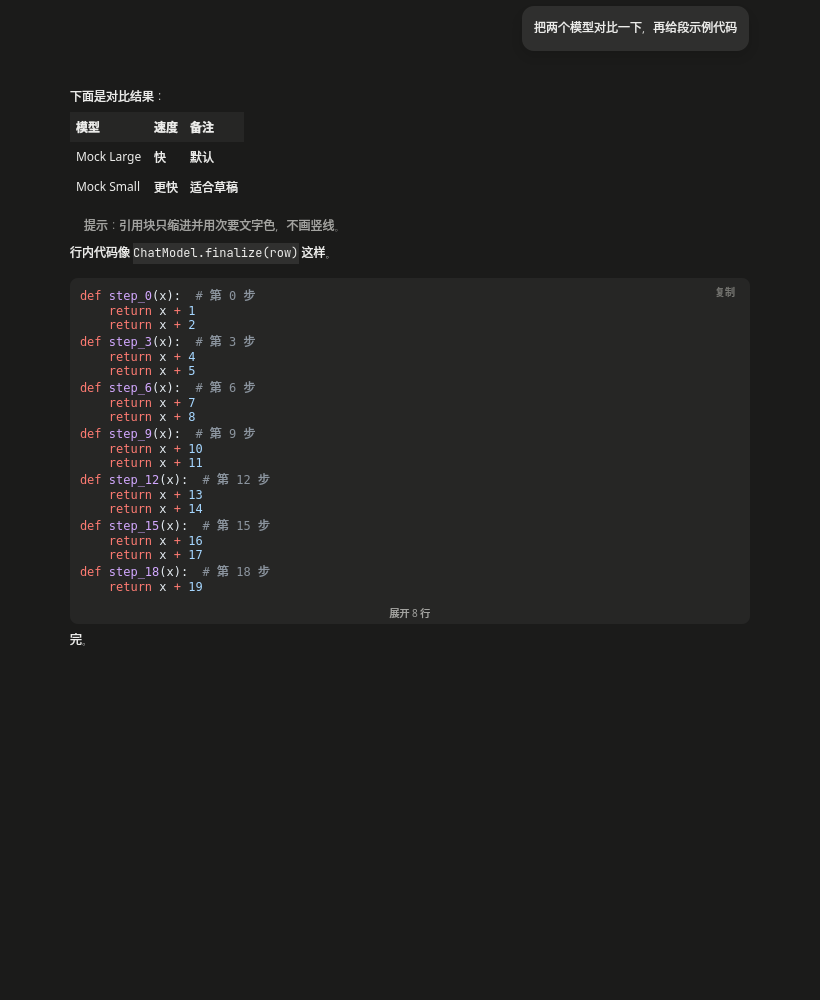
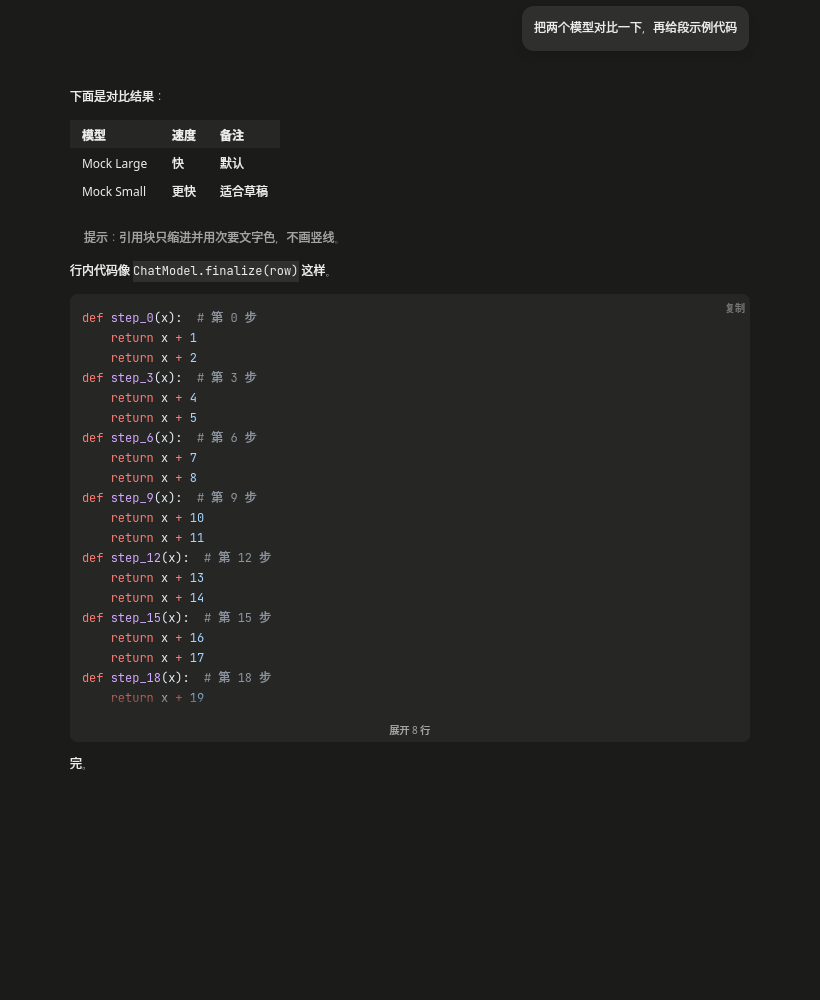
feat(chat-view): 代码块复制反馈“已复制 ✓”、12px/20px 排版与 12px 内边距、折叠渐隐；表格行高 28/左右 12；统一 12px 块间距

diff --git a/src/braid/ui/chat_view.py b/src/braid/ui/chat_view.py
@@ -10,6 +10,7 @@ from __future__ import annotations
 import json
 import re
 from collections import OrderedDict
+from collections.abc import Callable
 from dataclasses import dataclass, field
 from importlib.resources import files
 
@@ -32,6 +33,7 @@ from PySide6.QtGui import (
     QColor,
     QFont,
     QGuiApplication,
+    QLinearGradient,
     QMouseEvent,
     QPainter,
     QPalette,
@@ -70,6 +72,7 @@ _FALLBACK = {
         "subtle": "#F3F3F2",
         "control": "#F0F0EF",
         "active": "#E9E9E8",
+        "success": "#2E8B57",
     },
     True: {
         "text": "#ECECEA",
@@ -79,6 +82,7 @@ _FALLBACK = {
         "subtle": "#262625",
         "control": "#30302F",
         "active": "#3A3A39",
+        "success": "#5CC28A",
     },
 }
 
@@ -100,6 +104,7 @@ def _load_theme() -> dict[bool, dict[str, str]]:
 
 
 THEME = _load_theme()
+_FIXED_LH = 2  # QTextBlockFormat.LineHeightTypes.FixedHeight
 
 _FENCE_RE = re.compile(r"^(?P<ind> {0,3})(?P<f>`{3,}|~{3,})(?P<info>[^\n]*)$")
 
@@ -320,9 +325,14 @@ class CodeBlockInfo:
         return self.total_lines > CODE_COLLAPSE_LINES
 
 
-CODE_PAD = 10  # 代码块左右内边距
-CODE_VPAD = 8  # 代码块上下内边距
-TOGGLE_H = 22  # “展开 N 行”一栏高度
+CODE_PAD = 12  # 代码块左右内边距
+CODE_VPAD = 12  # 代码块上下内边距
+CODE_FONT_PX = 12
+CODE_LINE_H = 20
+TOGGLE_H = 24  # “展开 N 行”一栏高度（叠在渐隐区上）
+FADE_H = 32  # 折叠代码块底部渐隐高度
+GAP = 12  # 段落 / 表格 / 代码块之间的统一间距
+COPIED_MS = 1500
 
 
 def style_markdown(doc: QTextDocument, dark: bool) -> None:
@@ -339,17 +349,30 @@ def style_markdown(doc: QTextDocument, dark: bool) -> None:
                 tf.setBorder(0)
                 tf.setBorderStyle(QTextFrameFormat.BorderStyle.BorderStyle_None)
                 tf.setCellSpacing(0)
-                tf.setCellPadding(6)
+                tf.setCellPadding(0)
                 tf.setBorderCollapse(True)
                 tf.setWidth(QTextLength(QTextLength.Type.VariableLength, 0))
-                tf.setTopMargin(4)
-                tf.setBottomMargin(8)
+                tf.setTopMargin(GAP)
+                tf.setBottomMargin(GAP)
                 child.setFormat(tf)
-                for c in range(child.columns()):
-                    cell = child.cellAt(0, c)
-                    cf = cell.format()
-                    cf.setBackground(QColor(t["subtle"]))
-                    cell.setFormat(cf)
+                for r in range(child.rows()):
+                    for c in range(child.columns()):
+                        cell = child.cellAt(r, c)
+                        tcf = cell.format().toTableCellFormat()
+                        tcf.setLeftPadding(12)
+                        tcf.setRightPadding(12)
+                        tcf.setTopPadding(4)
+                        tcf.setBottomPadding(4)
+                        if r == 0:
+                            tcf.setBackground(QColor(t["subtle"]))
+                        cell.setFormat(tcf)
+                        # 行高 28 = 4 + 20 + 4
+                        cc = cell.firstCursorPosition()
+                        bf = cc.blockFormat()
+                        bf.setLineHeight(20, _FIXED_LH)
+                        bf.setTopMargin(0)
+                        bf.setBottomMargin(0)
+                        cc.setBlockFormat(bf)
     block = doc.begin()
     cur = QTextCursor(doc)
     code_bg = QColor(t["control"])
@@ -364,8 +387,20 @@ def style_markdown(doc: QTextDocument, dark: bool) -> None:
             nf.clearBackground()
             nf.setLeftMargin(CODE_PAD)
             nf.setRightMargin(CODE_PAD)
+            nf.setTopMargin(0)
+            nf.setBottomMargin(0)
+            nf.setLineHeight(CODE_LINE_H, _FIXED_LH)
             cur.setPosition(block.position())
             cur.setBlockFormat(nf)
+            cur.setPosition(block.position() + block.length() - 1, QTextCursor.MoveMode.KeepAnchor)
+            cf = QTextCharFormat()
+            f = QFont()
+            f.setFamilies(["JetBrains Mono", "Menlo", "Consolas", "monospace"])
+            f.setPixelSize(CODE_FONT_PX)
+            cf.setFont(
+                f, QTextCharFormat.FontPropertiesInheritanceBehavior.FontPropertiesSpecifiedOnly
+            )
+            cur.mergeCharFormat(cf)
         elif bf.hasProperty(QTextFormat.Property.BlockQuoteLevel):
             level = int(bf.property(QTextFormat.Property.BlockQuoteLevel) or 1)
             nf = bf
@@ -392,6 +427,21 @@ def style_markdown(doc: QTextDocument, dark: bool) -> None:
                     )
                     cur.mergeCharFormat(cf)
                 it += 1
+        block = block.next()
+
+
+def _uniform_spacing(doc: QTextDocument) -> None:
+    """普通段落上下 margin 统一为 GAP（相邻 margin 折叠，最终间距即 GAP）。"""
+    cur = QTextCursor(doc)
+    block = doc.begin()
+    while block.isValid():
+        bf = block.blockFormat()
+        cur.setPosition(block.position())
+        in_table = cur.currentTable() is not None
+        if not in_table and not bf.hasProperty(QTextFormat.Property.BlockCodeFence):
+            bf.setTopMargin(GAP)
+            bf.setBottomMargin(GAP)
+            cur.setBlockFormat(bf)
         block = block.next()
 
 
@@ -435,14 +485,17 @@ def _split_groups(
 
 
 def _pad_code_blocks(doc: QTextDocument, groups: list[list[int]], collapsed: list[bool]) -> None:
+    # margin 会折叠（取较大值），所以：段落↔代码块 = VPAD+GAP；代码块↔代码块要再加一个 VPAD
+    ends = {g[-1] for g in groups}
     for g, col in zip(groups, collapsed, strict=False):
         for num, extra in ((g[0], "top"), (g[-1], "bottom")):
             b = doc.findBlockByNumber(num)
             bf = b.blockFormat()
             if extra == "top":
-                bf.setTopMargin(2 * CODE_VPAD + 6)  # 相邻块 margin 会折叠，留出间隙
+                adj = (num - 1) in ends
+                bf.setTopMargin(CODE_VPAD + GAP + (CODE_VPAD if adj else 0))
             else:
-                bf.setBottomMargin(CODE_VPAD + 6 + (TOGGLE_H if col else 0))
+                bf.setBottomMargin(CODE_VPAD + GAP + (TOGGLE_H if col else 0))
             c = QTextCursor(b)
             c.setBlockFormat(bf)
 
@@ -478,6 +531,7 @@ class _DocCache:
                 doc.setMarkdown(collapse_source(text, expanded))
                 highlight_code_blocks(doc, dark)
                 style_markdown(doc, dark)
+                _uniform_spacing(doc)
                 groups = _split_groups(_code_groups(doc), fences, expanded)
                 infos = []
                 for i, (_s, _e, code) in enumerate(fences[: len(groups)]):
@@ -492,7 +546,7 @@ class _DocCache:
                     r0 = lay.blockBoundingRect(b0)
                     r1 = lay.blockBoundingRect(b1)
                     top = int(r0.top()) - CODE_VPAD
-                    bottom = int(r1.bottom()) + CODE_VPAD
+                    bottom = int(r1.top()) + CODE_LINE_H + CODE_VPAD + (TOGGLE_H if col else 0)
                     rect = QRect(0, top, width, max(1, bottom - top))
                     blocks.append(CodeBlockInfo(i, rect, code, n, col))
             self._d[key] = doc
@@ -518,6 +572,36 @@ class ChatDelegate(QStyledItemDelegate):
         self.dark = False
         self.hover_pos: QPoint | None = None  # 视图坐标，用于代码块悬停“复制”
         self.shadow_opacity = 0.55  # 用户气泡阴影保持很淡
+        # (row, 代码块下标) -> 计时器；存在即显示“已复制 ✓”
+        self.copied: dict[tuple[int, int], QTimer] = {}
+        self.copiedChanged_cb: list[Callable[[int], None]] = []  # 视图注册刷新回调
+
+    def mark_copied(self, row: int, block: int) -> None:
+        key = (row, block)
+        old = self.copied.pop(key, None)
+        if old is not None:
+            old.stop()
+            old.deleteLater()
+        timer = QTimer(self)
+        timer.setSingleShot(True)
+        timer.setInterval(COPIED_MS)
+        timer.timeout.connect(lambda: self._unmark(key))
+        self.copied[key] = timer
+        timer.start()
+        self._notify(row)
+
+    def _unmark(self, key: tuple[int, int]) -> None:
+        t = self.copied.pop(key, None)
+        if t is not None:
+            t.deleteLater()
+        self._notify(key[0])
+
+    def _notify(self, row: int) -> None:
+        for cb in self.copiedChanged_cb:
+            cb(row)
+
+    def copy_label(self, row: int, block: int) -> str:
+        return "已复制 ✓" if (row, block) in self.copied else "复制"
 
     # 布局
     def _column(self, rect: QRect) -> QRect:
@@ -542,12 +626,20 @@ class ChatDelegate(QStyledItemDelegate):
         out = []
         for info in self.cache.code_blocks(doc):
             r = info.rect.translated(ox, oy)
-            copy = QRect(r.right() - 44, r.top() + 4, 40, 20)
-            tog = QRect(r.x(), r.bottom() + 1, r.width(), TOGGLE_H) if info.collapsible else QRect()
-            if info.collapsible and not info.collapsed:
-                tog = QRect(r.right() - 92, r.top() + 4, 44, 20)
+            copy = QRect(r.right() - 68, r.top() + 4, 64, 20)
+            tog = QRect()
+            if info.collapsed:
+                tog = QRect(r.x(), r.bottom() - TOGGLE_H + 1, r.width(), TOGGLE_H)
+            elif info.collapsible:
+                tog = QRect(r.right() - 116, r.top() + 4, 44, 20)
             out.append((info, r, copy, tog))
         return out
+
+    @staticmethod
+    def fade_rect(code_rect: QRect) -> QRect:
+        """折叠代码块底部渐隐区：最后 TOGGLE_H（标签栏）+ FADE_H。"""
+        h = FADE_H + TOGGLE_H
+        return QRect(code_rect.x(), code_rect.bottom() - h + 1, code_rect.width(), h)
 
     def sizeHint(
         self, option: QStyleOptionViewItem, index: QModelIndex | QPersistentModelIndex
@@ -615,10 +707,10 @@ class ChatDelegate(QStyledItemDelegate):
             painter.drawRoundedRect(bubble, 12, 12)
         codes = self._code_rects(item, bubble, doc)
         painter.setPen(Qt.PenStyle.NoPen)
-        painter.setBrush(QColor(t["control"] if item.role == "user" else t["subtle"]))
-        for info, r, _c, _t in codes:
-            full = r.adjusted(0, 0, 0, TOGGLE_H if info.collapsed else 0)
-            painter.drawRoundedRect(full, 8, 8)
+        code_bg = QColor(t["control"] if item.role == "user" else t["subtle"])
+        painter.setBrush(code_bg)
+        for _info, r, _c, _t in codes:
+            painter.drawRoundedRect(r, 8, 8)
         painter.save()
         painter.translate(bubble.x() + PAD, bubble.y() + PAD)
         ctx = QAbstractTextDocumentLayout.PaintContext()
@@ -630,13 +722,31 @@ class ChatDelegate(QStyledItemDelegate):
         painter.setFont(small)
         for info, r, copy, tog in codes:
             if info.collapsed:
+                # 底部渐隐：透明 → 代码块底色，“展开 N 行”叠在上面
+                fade = self.fade_rect(r)
+                grad = QLinearGradient(0, fade.top(), 0, fade.bottom())
+                clear = QColor(code_bg)
+                clear.setAlpha(0)
+                grad.setColorAt(0.0, clear)
+                grad.setColorAt(0.55, code_bg)
+                grad.setColorAt(1.0, code_bg)
+                painter.setPen(Qt.PenStyle.NoPen)
+                painter.setBrush(QBrush(grad))
+                painter.drawRoundedRect(fade, 8, 8)
                 painter.setPen(QColor(t["text2"]))
                 n = info.total_lines - CODE_COLLAPSE_LINES
                 painter.drawText(tog, Qt.AlignmentFlag.AlignCenter, f"展开 {n} 行")
             hovered = self.hover_pos is not None and r.contains(self.hover_pos)
+            done = (index.row(), info.index) in self.copied
+            align = Qt.AlignmentFlag.AlignRight | Qt.AlignmentFlag.AlignVCenter
+            if done:
+                painter.setPen(QColor(t["success"]))
+                painter.drawText(copy, align, "已复制 ✓")
+            elif hovered and not item.streaming:
+                painter.setPen(QColor(t["text3"]))
+                painter.drawText(copy, align, "复制")
             if hovered and not item.streaming:
                 painter.setPen(QColor(t["text3"]))
-                painter.drawText(copy, Qt.AlignmentFlag.AlignCenter, "复制")
                 if info.collapsible and not info.collapsed:
                     painter.drawText(tog, Qt.AlignmentFlag.AlignCenter, "收起")
         painter.restore()
@@ -679,6 +789,11 @@ class ChatView(QListView):
         self.setModel(self.chat_model)
         self.delegate = ChatDelegate(self)
         self.setItemDelegate(self.delegate)
+        self.delegate.copiedChanged_cb.append(
+            lambda r: (
+                self.update(self.chat_model.index(r)) if r < self.chat_model.rowCount() else None
+            )
+        )
         self.setSelectionMode(QAbstractItemView.SelectionMode.NoSelection)
         self.setVerticalScrollMode(QAbstractItemView.ScrollMode.ScrollPerPixel)
         self.setHorizontalScrollBarPolicy(Qt.ScrollBarPolicy.ScrollBarAlwaysOff)
@@ -742,6 +857,7 @@ class ChatView(QListView):
             fences = parse_code_fences(item.text)
             if idx < len(fences):
                 QGuiApplication.clipboard().setText(fences[idx][2])
+                self.delegate.mark_copied(row, idx)
         elif action.startswith("code_toggle:"):
             self.chat_model.toggle_code(row, int(action.split(":", 1)[1]))
         elif action == "prev":

diff --git a/tests/test_md_render.py b/tests/test_md_render.py
@@ -15,7 +15,7 @@ def test_table_styled(qtbot):
     doc = _DocCache().get("| a | b |\n|---|---|\n| 1 | 2 |\n", 400, False)
     (t,) = _tables(doc)
     assert t.format().border() == 0
-    assert t.format().cellPadding() >= 4
+    assert t.cellAt(0, 0).format().toTableCellFormat().leftPadding() == 12
     assert t.cellAt(0, 0).format().background().style() != 0
 
 
@@ -108,3 +108,74 @@ def test_user_bubble_paints_shadow(qtbot, monkeypatch):
     p.end()
     assert ("e2", False) in calls and ("paint", True) in calls
     assert calls.count(("e2", False)) == 1  # 只给用户气泡画
+
+
+def _code_ctx(v, row=0):
+    item = v.chat_model.items[row]
+    rect = v.visualRect(v.chat_model.index(row))
+    col = v.delegate._column(rect.adjusted(0, chat_view.PAD // 2, 0, 0))
+    doc = v.delegate._doc(item, max(80, v.delegate._text_width(item, col.width())))
+    return item, rect, v.delegate._code_rects(item, v.delegate._bubble_rect(item, col, doc), doc)
+
+
+def test_copied_label_reverts(qtbot, monkeypatch):
+    monkeypatch.setattr(chat_view, "COPIED_MS", 80)
+    v = ChatView()
+    qtbot.addWidget(v)
+    v.resize(700, 600)
+    v.chat_model.set_messages([("assistant", "```\na()\n```\n\n```\nb()\n```\n")])
+    v.show()
+    qtbot.waitExposed(v)
+    item, rect, codes = _code_ctx(v)
+    v.trigger(0, v.delegate.hit(rect, item, codes[0][2].center()))
+    assert v.delegate.copy_label(0, 0) == "已复制 ✓"
+    assert v.delegate.copy_label(0, 1) == "复制"  # 按 行+块 区分
+    qtbot.waitUntil(lambda: v.delegate.copy_label(0, 0) == "复制", timeout=1000)
+
+
+def test_collapsed_fade_painted(qtbot):
+    v = ChatView()
+    qtbot.addWidget(v)
+    v.resize(700, 900)
+    v.chat_model.set_messages([("assistant", LONG)])
+    v.show()
+    qtbot.waitExposed(v)
+    _item, _rect, codes = _code_ctx(v)
+    info, r, _c, tog = codes[0]
+    assert info.collapsed
+    fade = v.delegate.fade_rect(r)
+    assert fade.height() >= 32 + chat_view.TOGGLE_H - 1 and fade.contains(tog.center())
+    img = v.grab().toImage()
+    bg = img.pixelColor(r.x() + 4, r.top() + 4)  # 代码块底色
+    # 渐隐区中间应已基本是底色，而上方代码行区域不受影响
+    mid = img.pixelColor(r.x() + 200, fade.top() + fade.height() * 3 // 4)
+    assert abs(mid.lightness() - bg.lightness()) <= 6
+
+
+def test_code_metrics_and_spacing(qtbot):
+    c = _DocCache()
+    doc = c.get("段落一\n\n```\nx = 1\n```\n\n之后的段落\n", 500, False)
+    (info,) = c.code_blocks(doc)
+    lay = doc.documentLayout()
+    b = doc.begin()
+    after = None
+    while b.isValid():
+        if b.text() == "x = 1":
+            assert b.blockFormat().lineHeight() == chat_view.CODE_LINE_H
+            assert b.begin().fragment().charFormat().font().pixelSize() == 12
+        if b.text() == "之后的段落":
+            after = lay.blockBoundingRect(b)
+        b = b.next()
+    assert info.rect.height() == chat_view.CODE_LINE_H + 2 * 12
+    assert after is not None and int(after.top()) - info.rect.bottom() - 1 in range(11, 14)
+
+
+def test_table_row_height_and_padding(qtbot):
+    doc = _DocCache().get("| a | b |\n|---|---|\n| 1 | 2 |\n", 400, False)
+    (t,) = _tables(doc)
+    cf = t.cellAt(1, 0).format().toTableCellFormat()
+    assert cf.leftPadding() == 12 and cf.rightPadding() == 12
+    lay = doc.documentLayout()
+    r0 = lay.blockBoundingRect(t.cellAt(0, 0).firstCursorPosition().block())
+    r1 = lay.blockBoundingRect(t.cellAt(1, 0).firstCursorPosition().block())
+    assert abs((r1.top() - r0.top()) - 28) <= 1
